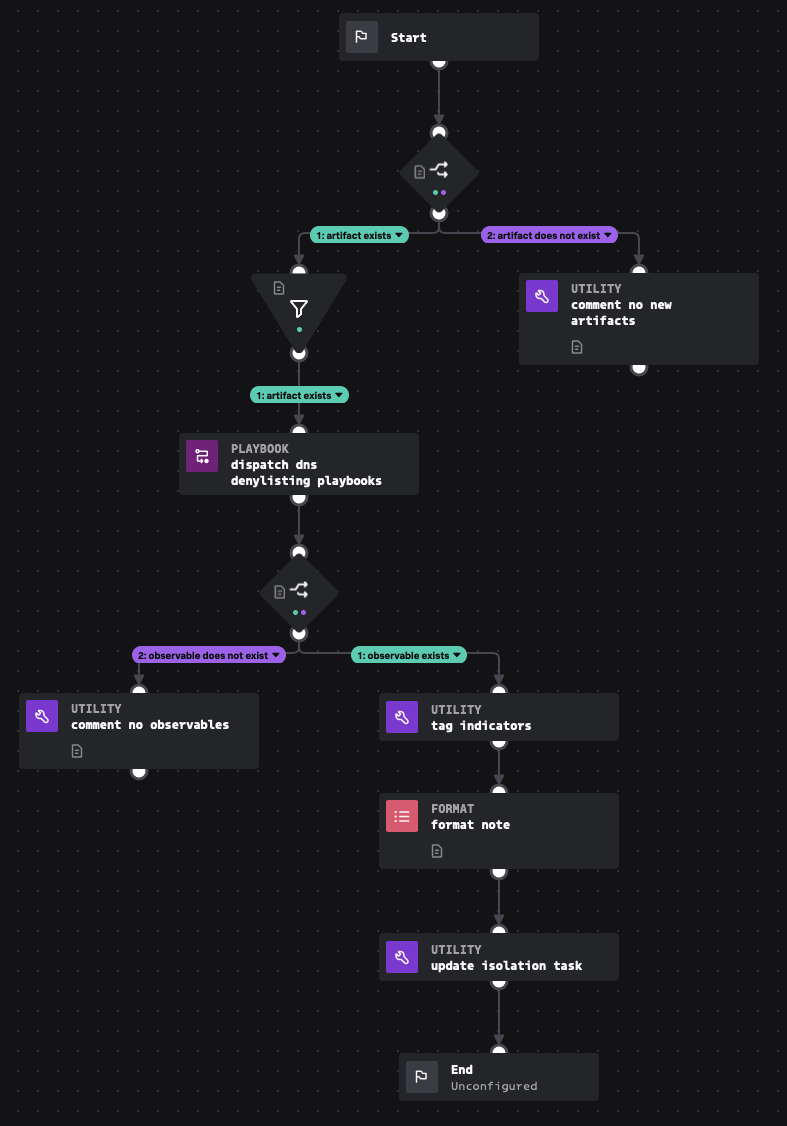
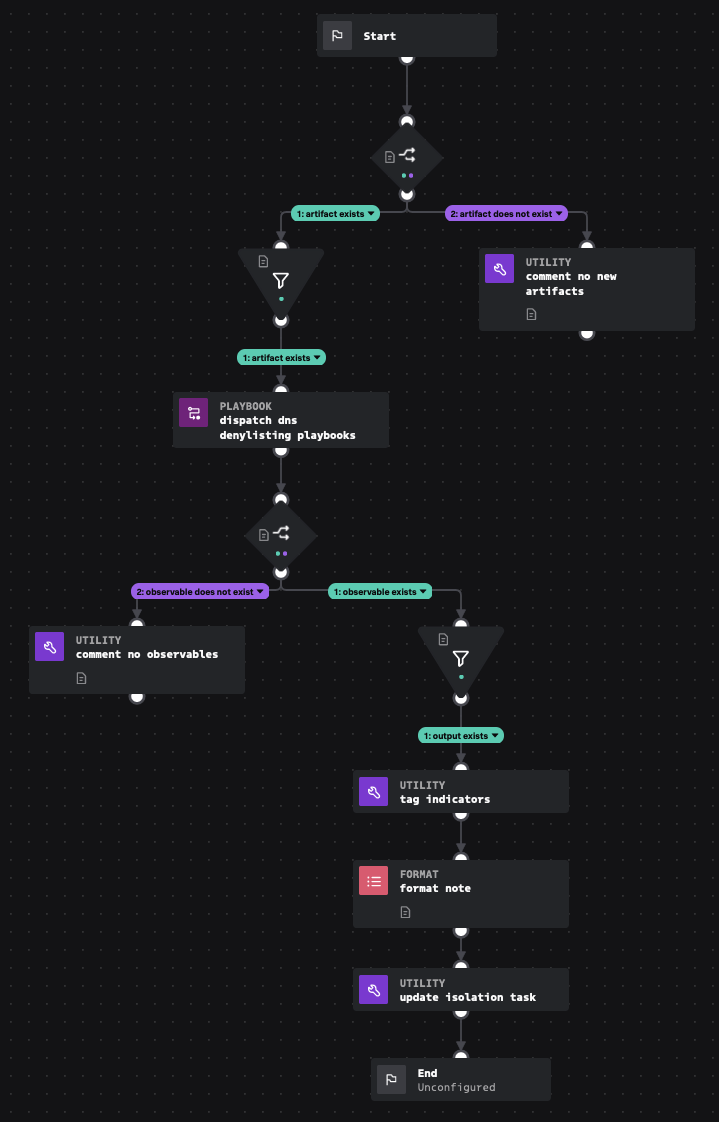
bug fix

Changed region(s): [[0.0306, 0.0, 0.8567, 0.6863], [0.4284, 0.4991, 0.7344, 0.9982], [0.153, 0.6863, 0.1836, 0.7175]]

diff --git a/playbooks/DNS_Denylisting_Dispatch.py b/playbooks/DNS_Denylisting_Dispatch.py
@@ -1,5 +1,5 @@
 """
-Detects available indicators and routes them to dispatch DNS denylisting playbooks.  These playbooks will block the given domains. The output of the analysis will update any artifacts, tasks, and indicator tags.
+Detects available indicators and routes them to dispatch DNS denylisting playbooks.  These playbooks will block the given domains. The output of the analysis will update any artifacts, tasks, and indicator tags.\n\nhttps://d3fend.mitre.org/technique/d3f:DNSDenylisting/
 """
 
 
@@ -95,12 +95,16 @@ def comment_no_new_artifacts(action=None, success=None, container=None, results=
 def dispatch_dns_denylisting_playbooks(action=None, success=None, container=None, results=None, handle=None, filtered_artifacts=None, filtered_results=None, custom_function=None, **kwargs):
     phantom.debug("dispatch_dns_denylisting_playbooks() called")
 
+    container_artifact_data = phantom.collect2(container=container, datapath=["artifact:*.id"])
+
+    container_artifact_header_item_0 = [item[0] for item in container_artifact_data]
+
     inputs = {
-        "playbook_repo": [],
         "playbook_tags": ["denylist"],
-        "artifact_ids_include": [],
-        "indicator_tags_exclude": [],
+        "playbook_repo": [],
         "indicator_tags_include": [],
+        "indicator_tags_exclude": [],
+        "artifact_ids_include": container_artifact_header_item_0,
     }
 
     ################################################################################
@@ -137,7 +141,7 @@ def outputs_decision(action=None, success=None, container=None, results=None, ha
 
     # call connected blocks if condition 1 matched
     if found_match_1:
-        tag_indicators(action=action, success=success, container=container, results=results, handle=handle)
+        output_filter(action=action, success=success, container=container, results=results, handle=handle)
         return
 
     # check for 'else' condition 2
@@ -150,15 +154,15 @@ def outputs_decision(action=None, success=None, container=None, results=None, ha
 def tag_indicators(action=None, success=None, container=None, results=None, handle=None, filtered_artifacts=None, filtered_results=None, custom_function=None, **kwargs):
     phantom.debug("tag_indicators() called")
 
-    dispatch_dns_denylisting_playbooks_output_observable = phantom.collect2(container=container, datapath=["dispatch_dns_denylisting_playbooks:playbook_output:observable.value"])
+    filtered_output_0_dispatch_dns_denylisting_playbooks_output_observable = phantom.collect2(container=container, datapath=["filtered-data:output_filter:condition_1:dispatch_dns_denylisting_playbooks:playbook_output:observable.value"])
 
     parameters = []
 
     # build parameters list for 'tag_indicators' call
-    for dispatch_dns_denylisting_playbooks_output_observable_item in dispatch_dns_denylisting_playbooks_output_observable:
+    for filtered_output_0_dispatch_dns_denylisting_playbooks_output_observable_item in filtered_output_0_dispatch_dns_denylisting_playbooks_output_observable:
         parameters.append({
             "tags": "blocked",
-            "indicator": dispatch_dns_denylisting_playbooks_output_observable_item[0],
+            "indicator": filtered_output_0_dispatch_dns_denylisting_playbooks_output_observable_item[0],
             "overwrite": None,
         })
 
@@ -189,9 +193,9 @@ def format_note(action=None, success=None, container=None, results=None, handle=
 
     # parameter list for template variable replacement
     parameters = [
-        "dispatch_dns_denylisting_playbooks:playbook_output:observable.value",
-        "dispatch_dns_denylisting_playbooks:playbook_output:observable.status",
-        "dispatch_dns_denylisting_playbooks:playbook_output:observable.source"
+        "filtered-data:output_filter:condition_1:dispatch_dns_denylisting_playbooks:playbook_output:observable.value",
+        "filtered-data:output_filter:condition_1:dispatch_dns_denylisting_playbooks:playbook_output:observable.status",
+        "filtered-data:output_filter:condition_1:dispatch_dns_denylisting_playbooks:playbook_output:observable.source"
     ]
 
     ################################################################################
@@ -263,6 +267,30 @@ def comment_no_observables(action=None, success=None, container=None, results=No
     ################################################################################
 
     phantom.comment(container=container, comment="No observable data found from dispatched playbooks.")
+
+    return
+
+
+@phantom.playbook_block()
+def output_filter(action=None, success=None, container=None, results=None, handle=None, filtered_artifacts=None, filtered_results=None, custom_function=None, **kwargs):
+    phantom.debug("output_filter() called")
+
+    ################################################################################
+    # Determine if the observable is not None.
+    ################################################################################
+
+    # collect filtered artifact ids and results for 'if' condition 1
+    matched_artifacts_1, matched_results_1 = phantom.condition(
+        container=container,
+        conditions=[
+            ["dispatch_dns_denylisting_playbooks:playbook_output:observable", "!=", None]
+        ],
+        name="output_filter:condition_1",
+        delimiter=None)
+
+    # call connected blocks if filtered artifacts or results
+    if matched_artifacts_1 or matched_results_1:
+        tag_indicators(action=action, success=success, container=container, results=results, handle=handle, filtered_artifacts=matched_artifacts_1, filtered_results=matched_results_1)
 
     return
 
